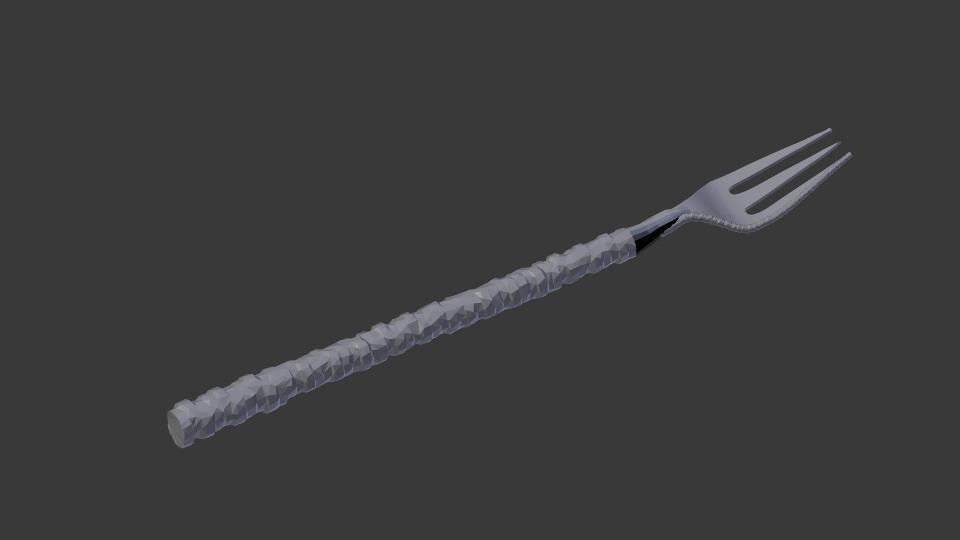
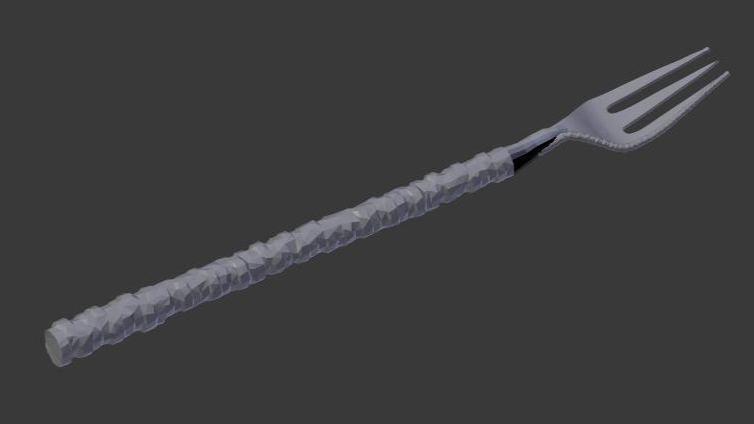
modular cutlery updaet. addition of job to prof exp

Changed region(s): [[0.061, 0.092, 0.9761, 0.8585]]

diff --git a/src/content/pages/professional-experience.md b/src/content/pages/professional-experience.md
@@ -1,18 +1,37 @@
 ---
 title: "professional experience"
-date: 2024-04-04
+date: 2026-05-22
 coverImage: "_rock4.jpg"
 layoutType: "organic"
 ---
 
 _I deliver experience-focused design from concept through manufacturing, combining creative problem-solving, rapid prototyping, and cross-cultural collaboration in diverse industries._
 
+
+<div class="mb-20">
+  <div class="text-5xl font-black tracking-tighter uppercase text-white mb-8 select-none">Contract Mechanical Engineer</div>
+
+  <h3 class="text-xl font-bold uppercase tracking-tight">Independent Consultant</h3>
+  <p class="text-[10px] tracking-[0.3em] uppercase text-[#F9F9F9]/40 mb-1">Remote, USA | Current</p>
+
+  <p class="mb-6 text-[#F9F9F9]/90">On-demand design support for hardware programs at any development stage.</p>
+
+  <ul class="list-disc list-outside ml-4 space-y-2 text-[#F9F9F9]/80">
+    <li>Delivered technical designs for complex, niche hardware challenges on a contract basis.</li>
+    <li>Executed precise design modifications within complex large-scale CAD assemblies, ensuring seamless alignment across distributed teams.</li>
+    <li>Proven ability to quickly onboard into mid-cycle projects, providing immediate support.</li>
+    <li>Analyzed and refined existing one-off manufacturing station designs, implementing new client requests, technical upgrades, and mechanism improvements.</li>
+  </ul>
+
+<br />
+<br />
+<br />
+
 <div class="mb-20">
   <img src="/images/swivl_logo_wordmark_white.png" alt="Swivl Logo" class="not-prose w-48 mb-8 block object-contain" />
   
   <h3 class="text-xl font-bold uppercase tracking-tight">Mechanical Engineer</h3>
-  <p class="text-[10px] tracking-[0.3em] uppercase text-[#F9F9F9]/40 mb-1">Menlo Park, California, USA</p>
-  <p class="text-xs italic text-[#F9F9F9]/60 mb-6">March 2020 - December 2023</p>
+  <p class="text-[10px] tracking-[0.3em] uppercase text-[#F9F9F9]/40 mb-1">Menlo Park, California, USA | Mar 2020 - Dec 2023</p>
 
   <p class="mb-6 text-[#F9F9F9]/90">Since 2010, Swivl has been building tools to accelerate reflection in schools and beyond. Using data-assisted, high quality audio and video capture used by students and teachers for reflection and remote learning.</p>
 
@@ -26,7 +45,7 @@ _I deliver experience-focused design from concept through manufacturing, combini
     <li>Communicated cross-functionally with remote and in-person teams, managing mechanical communications and documentation for teammates, suppliers, CEO, contractors.</li>
   </ul>
 
-  <div class="grid grid-cols-2 md:grid-cols-3 gap-4 ">
+  <div class="grid grid-cols-1 md:grid-cols-3 gap-4 ">
     <a href="/engineering/remote" class="group overflow-hidden block">
       <img src="/images/remote-hand2.png" alt="Swivl Remote" class="w-full h-full object-cover transition-transform duration-500 group-hover:scale-102" />
     </a>
@@ -47,8 +66,7 @@ _I deliver experience-focused design from concept through manufacturing, combini
   <img src="/images/7de28-87d8fb_44cf0a34aba54a51a4354ebc0ebe5e74mv2.png" alt="KEA Logo" class="not-prose w-48 mb-8 block object-contain" />
 
   <h3 class="text-xl font-bold uppercase tracking-tight">Associate Engineer</h3>
-  <p class="text-[10px] tracking-[0.3em] uppercase text-[#F9F9F9]/40 mb-1">Marlborough, Massachusetts, USA</p>
-  <p class="text-xs italic text-[#F9F9F9]/60 mb-6">July-December 2018</p>
+  <p class="text-[10px] tracking-[0.3em] uppercase text-[#F9F9F9]/40 mb-1">Marlborough, Massachusetts, USA | July-Dec 2018</p>
 
   <p class="mb-6 text-[#F9F9F9]/90">KEA is a full-service R&D company providing engineering solutions and extensive subject-matter expertise applied to the automotive industry and others such as transportation, defense, and the oil & gas sector. Partners with government programs and Ford Motor Company.</p>
 
@@ -58,7 +76,7 @@ _I deliver experience-focused design from concept through manufacturing, combini
     <li>Drafted detailed drawings for US patents, fabrication orders, assembly instructions, and technician installation guides.</li>
   </ul>
 
-  <div class="grid grid-cols-2 md:grid-cols-3 gap-4 ">
+  <div class="grid grid-cols-1 md:grid-cols-3 gap-4 ">
       <img src="/images/908f7-87d8fb_2cbf918813524245bdbff39342d06ab4mv2_d_2803_3410_s_4_2.jpg" alt="KEA 1" class="w-full h-full object-cover" />
       <img src="/images/d082e-87d8fb_bd9f5b40b0f44bdb9a86c85932f306a2mv2_d_4080_2753_s_4_2.jpg" alt="KEA 2" class="w-full h-full object-cover" />
       <a href="/engineering/alcohol-sensor" class="group overflow-hidden block">
@@ -75,8 +93,7 @@ _I deliver experience-focused design from concept through manufacturing, combini
   <img src="/images/334e0-87d8fb_b7b2205e6278482a99febebf59714c32mv2.png" alt="Sentieo Logo" class="not-prose w-48 mb-8 block object-contain" />
 
   <h3 class="text-xl font-bold uppercase tracking-tight">Sales & Marketing Co-op</h3>
-  <p class="text-[10px] tracking-[0.3em] uppercase text-[#F9F9F9]/40 mb-1">San Francisco, California, USA</p>
-  <p class="text-xs italic text-[#F9F9F9]/60 mb-6">July-December 2017</p>
+  <p class="text-[10px] tracking-[0.3em] uppercase text-[#F9F9F9]/40 mb-1">San Francisco, California, USA | July-Dec 2017</p>
 
   <p class="mb-6 text-[#F9F9F9]/90">Built by former hedge fund analysts and professional investors, Sentieo provides next generation equity research and research management software solutions to small shops as well as larger enterprise financial firms.</p>
 
@@ -96,8 +113,7 @@ _I deliver experience-focused design from concept through manufacturing, combini
   <img src="/images/5b6ea-87d8fb_d9aeb86264c4487fa1c2dfb09332e618mv2.png" alt="Eastek Logo" class="not-prose w-48 mb-8 block object-contain" />
 
   <h3 class="text-xl font-bold uppercase tracking-tight">Engineering Co-op</h3>
-  <p class="text-[10px] tracking-[0.3em] uppercase text-[#F9F9F9]/40 mb-1">Dongguan, China</p>
-  <p class="text-xs italic text-[#F9F9F9]/60 mb-6">July-December 2016</p>
+  <p class="text-[10px] tracking-[0.3em] uppercase text-[#F9F9F9]/40 mb-1">Dongguan, China | July-Dec 2016</p>
 
   <p class="mb-6 text-[#F9F9F9]/90">An American owned and operated company providing world-class manufacturing services from DFM support through distribution with their established global footprint.</p>
 
@@ -122,8 +138,7 @@ _I deliver experience-focused design from concept through manufacturing, combini
   <div class="text-5xl font-black tracking-tighter uppercase text-white mb-8 select-none">Atal</div>
 
   <h3 class="text-xl font-bold uppercase tracking-tight">Social Researcher</h3>
-  <p class="text-[10px] tracking-[0.3em] uppercase text-[#F9F9F9]/40 mb-1">Ogoja LGA, Cross River State, Nigeria</p>
-  <p class="text-xs italic text-[#F9F9F9]/60 mb-6">June-August 2014</p>
+  <p class="text-[10px] tracking-[0.3em] uppercase text-[#F9F9F9]/40 mb-1">Ogoja LGA, Cross River State, Nigeria | June-Aug 2014</p>
 
   <p class="mb-6 text-[#F9F9F9]/90">Atal identifies local business opportunities, demonstrates viability, and provides opportunities for others in our extensive local networks to benefit economically from these businesses.</p>
 

diff --git a/src/content/pages/modular-cutlery.md b/src/content/pages/modular-cutlery.md
@@ -56,11 +56,13 @@ images:
 
 _The goal of this project was to explore my thesis: adding functionality to common tools by means of personal 3D designing and printing technology._
 
-The modular cutlery design piece was put on display at the Boston Design Center for 2 weeks alongside other students' completed sets.
+![omnicut logo](/images/omnicut-png-no-bg.png)
 
 <div class="aspect-[9:16] w-150 overflow-hidden mx-auto bg-[#111]">
   <img src="/images/omnicut2.jpg" alt="omnicut" class="w-full h-full object-cover object-bottom" />
 </div>
+
+The modular cutlery design piece was put on display at the Boston Design Center for two weeks alongside other students' completed sets.
 
 A designer lamp was photographed in the Boston Design Center to make the 3D rendering. The resulting model was sent through programs such as Microsoft 3D Repair to ensure the mesh was complete enough to be altered; developing techniques to seal and manipulate meshes of complex 3D models with thousands of vertices.
 
